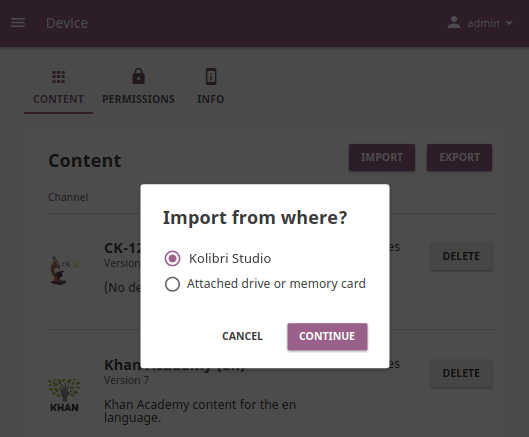
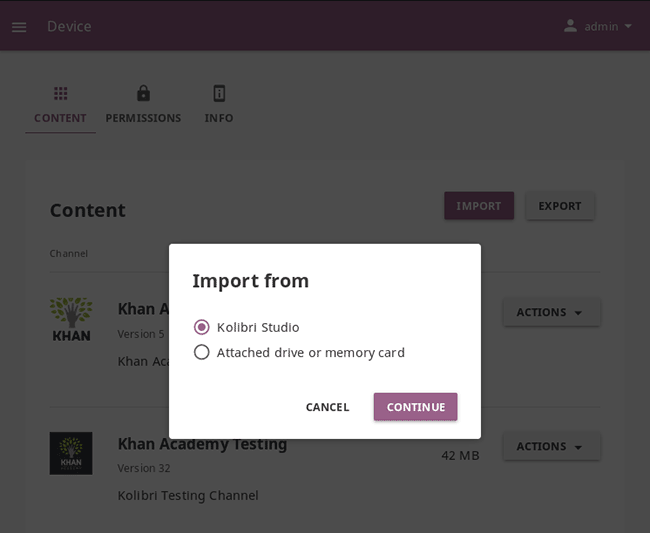
Manage Content updated text and screenshots

diff --git a/docs/manage/_content.rst b/docs/manage/_content.rst
@@ -61,32 +61,39 @@ If the computer where Kolibri is running has an Internet connection with the suf
   	.. image:: img/kolibri-central-server.png
 	  :alt: Select from which public channel you want to import content from.
 
-  * |lock-open| indicates an unlisted/private channel you have access to on Kolibri Studio
-  * |on-device| indicates a channel from which you have already imported some or all content onto your device
-
+    
+      Channels from which you have already imported some or all content onto your device will have the |on-device| icon. 
 
 
 #. Click **Select** button for the desired channel, and wait for Kolibri to display the channel information and the topic tree.
-#. In the **Select content** page you will see all the details of the selected channel: description, version, total size and number of learning resources, with the information weather you have some of the resources from that channel already imported on the local device.
+
+   .. warning:: This could take some time for big channels. Please be patient, as Kolibri needs to retrieve a lot of information to display.
+
+
+#. In the **Select content from...** page you will see all the details for the selected channel: description, version, total size and number of learning resources, with the information weather you have some of the resources from that channel already imported on the local device.
 
   	.. image:: img/select-content.png
 	  :alt: Select topics and resources to import from channel.
 
-#. Under **Choose content to import** you can browse the channel topics and individual resources. Use the *Select all* checkbox to import the content channel in full, or select only certain topics or resources. As you keep selecting, you will see the total number and size on disk under *Resources selected:*, and the remaining space on your device.
+#. Under **Choose content to import** click the topics links to browse through the channel contents. Use the *Select all* checkbox to import the content channel in full, or select only certain topics or resources. As you keep selecting, you will see the total number and size on disk under *Resources selected:*, and the remaining space on your device.
 #. Click **Import** button once you finish selecting all the desired content.
+
 #. Wait for the content to be downloaded and click **Close** for the new channel to appear under the **Content** heading.
 
 	.. image:: img/import-CC.png
 	  :alt: wait for import channel to finish
 
-#. If you need to import content from a **private/unlisted** channel, scroll to the bottom of the *Kolibri Studio* page.
-#. Click on **Try adding the token** link, and enter the **channel token/ID** received from the channel curator on Kolibri Studio.
+#. If you need to import content from a **private/unlisted** channel, click on **Try adding the token** link above the channel list.  
+#. Enter the **channel token/ID** received from the channel curator on Kolibri Studio.
 
 	.. image:: img/enter-token.png
 	  :alt: enter content token to import from unlisted channel
 
 #. Click **Confirm** to unlock channel, or **Cancel** to exit.
 #. Proceed to select and import channel topics and resources as for the public channels.
+
+   Unlisted or private channels in the list are indicated with the |lock-open| icon.
+#. To add more learning resources from a channel that you previously imported content from, click **Actions**, select **Import more**, and repeat the selecting procedure from step 3. 
 
 
 Import Content from a Local Drive
@@ -137,7 +144,7 @@ Export from Kolibri to Local Drive
 If you want to make available the content you have imported on your Kolibri device, to another computer where Kolibri is installed, follow these steps to export your content channels.
 
 .. note::
-  You must have an external drive (USB stick or hard disk) attached to your device.
+  You must have an external drive (SD card, USB stick or hard disk) attached to your device.
 
 #. Click **Export** button in **Content** page.
 #. Select the local drive (export destination) where you wish to export **Kolibri** content, and click **Continue**.
@@ -147,7 +154,7 @@ If you want to make available the content you have imported on your Kolibri devi
 	  :alt: Select from which channel you want to export to local drive.
 
 #. Click **Select** button for the desired channel, and wait for Kolibri to display the channel information and the topic tree.
-#. In the **Select content** page you will see all the details of the selected channel: description, version, total size and number of learning resources.
+#. In the **Select content from...** page you will see all the details of the selected channel: description, version, total size and number of learning resources.
 #. Under **Choose content to export** you can browse the channel topics and individual resources. Use the *Select all* checkbox to import the content channel in full, or select only certain topics or resources. As you keep selecting, you will see the total number and size on disk under *Resources selected:*, and the remaining space on the destination drive.
 #. Click **Export** button once you finish selecting all the desired content.
 #. Wait for Kolibri to export the selected content and click **Close**.
@@ -157,6 +164,19 @@ If you want to make available the content you have imported on your Kolibri devi
 
 	.. image:: img/kolibri-data-osx.png
 	  :alt: structure of the local drive folders with exported content channels
+
+Delete Channel
+--------------
+
+To delete a content channel from your device, follow these steps.
+
+#. Click **Actions** for the channel you want to delete.
+#. Select **Delete** option.
+#. Click **Delete** to proceed, or **Cancel** to exit without deleting the channel.
+
+  .. image:: img/delete-channel.png
+    :alt: delete content channel from your device
+
 
 
 Peer-to-Peer Content Synchronization
